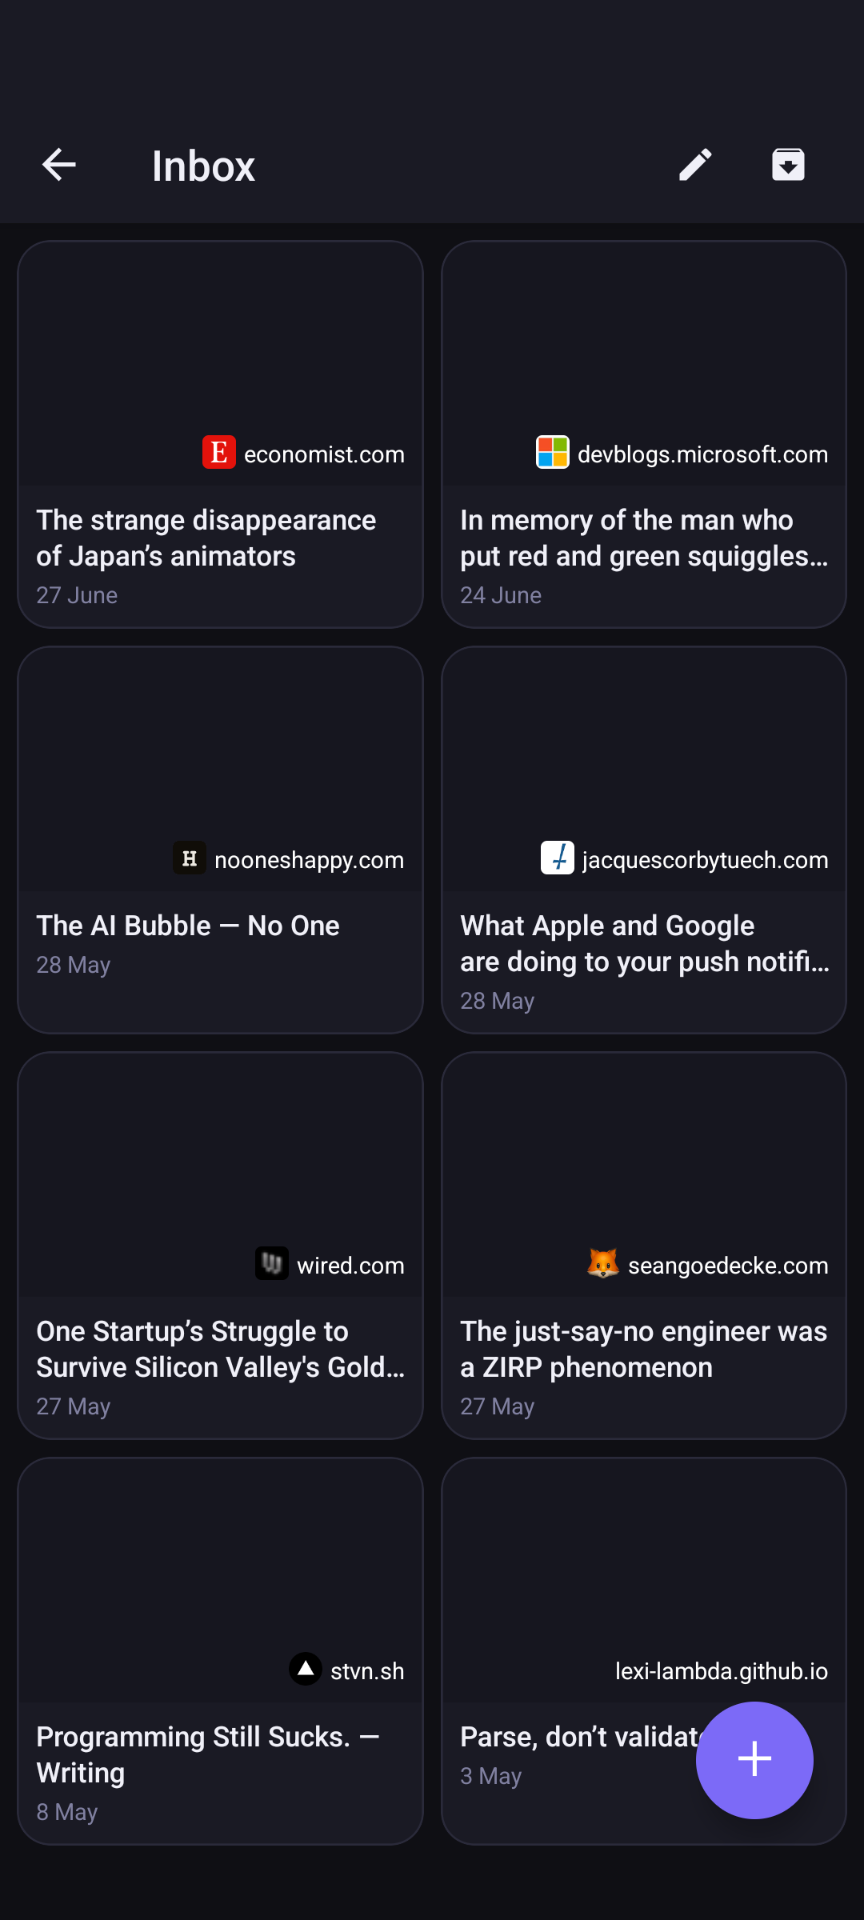
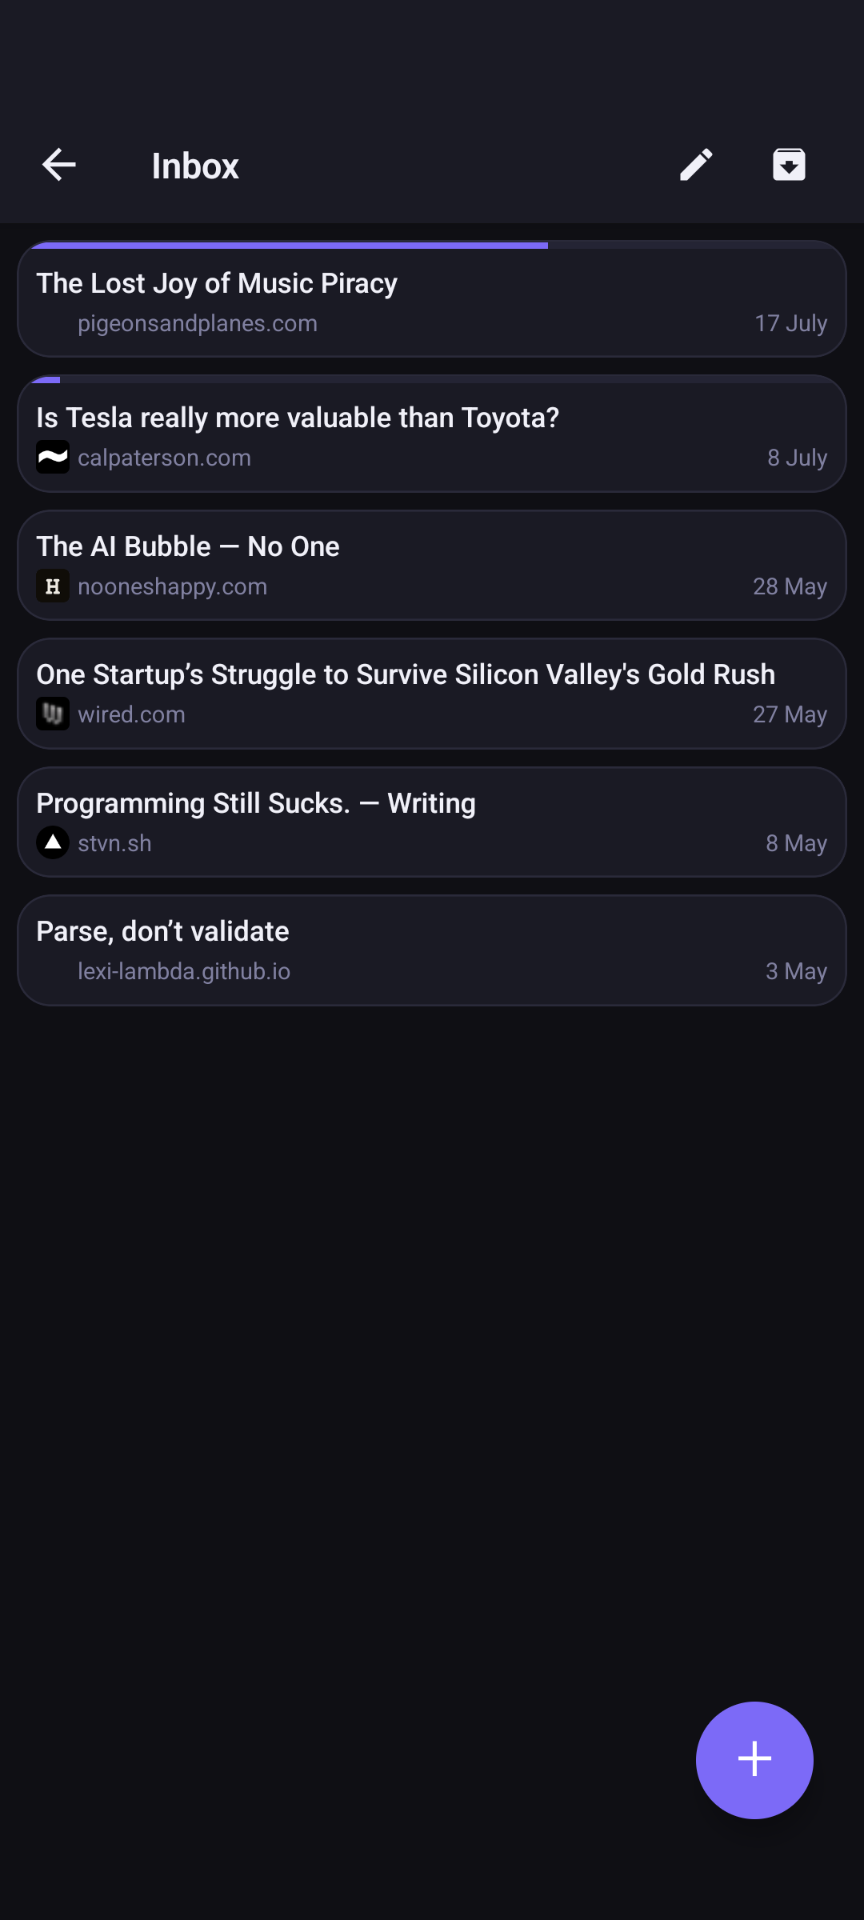
Update notes: M notes/Assets/stash-articles.png notes/Notes/Software/Self-Hosting.md notes/Projects/Stash.md
Affected files:
notes/Assets/stash-articles.png
notes/Notes/Software/Self-Hosting.md
notes/Projects/Stash.md

diff --git a/notes/Notes/Software/Self-Hosting.md b/notes/Notes/Software/Self-Hosting.md
@@ -1,7 +1,7 @@
 ---
 subtitle: Running services on your own machines.
 ---
-Self-hosting allows you to have full control over your own data.  This comes at the cost of needing to manage your own data, a tradeoff everyone will have consider for themselves.
+Self-hosting allows you to have full control over your own services and data. With all the asso benefits and the costs
 
 Nextcloud is a fantastic platform you can use to self-host a number of different services.  It isn't without its hiccups but its generally quite easy to set up (see [[Nextcloud Phone Photo Upload]]).  I personally run a Nextcloud instance for sharing files, backups, and managing my RSS feeds ([Nextcloud News](https://github.com/nextcloud/news)).
 

diff --git a/notes/Projects/Stash.md b/notes/Projects/Stash.md
@@ -9,9 +9,7 @@ See it on [GitHub](https://github.com/zachpmanson/stash).
 ![[stash-home.png]]
 
 ![[stash-folder.png]]
-
 ![[stash-articles.png]]
-
 ![[stash-reader.png]]
 
 ![[stash-tts.png]]